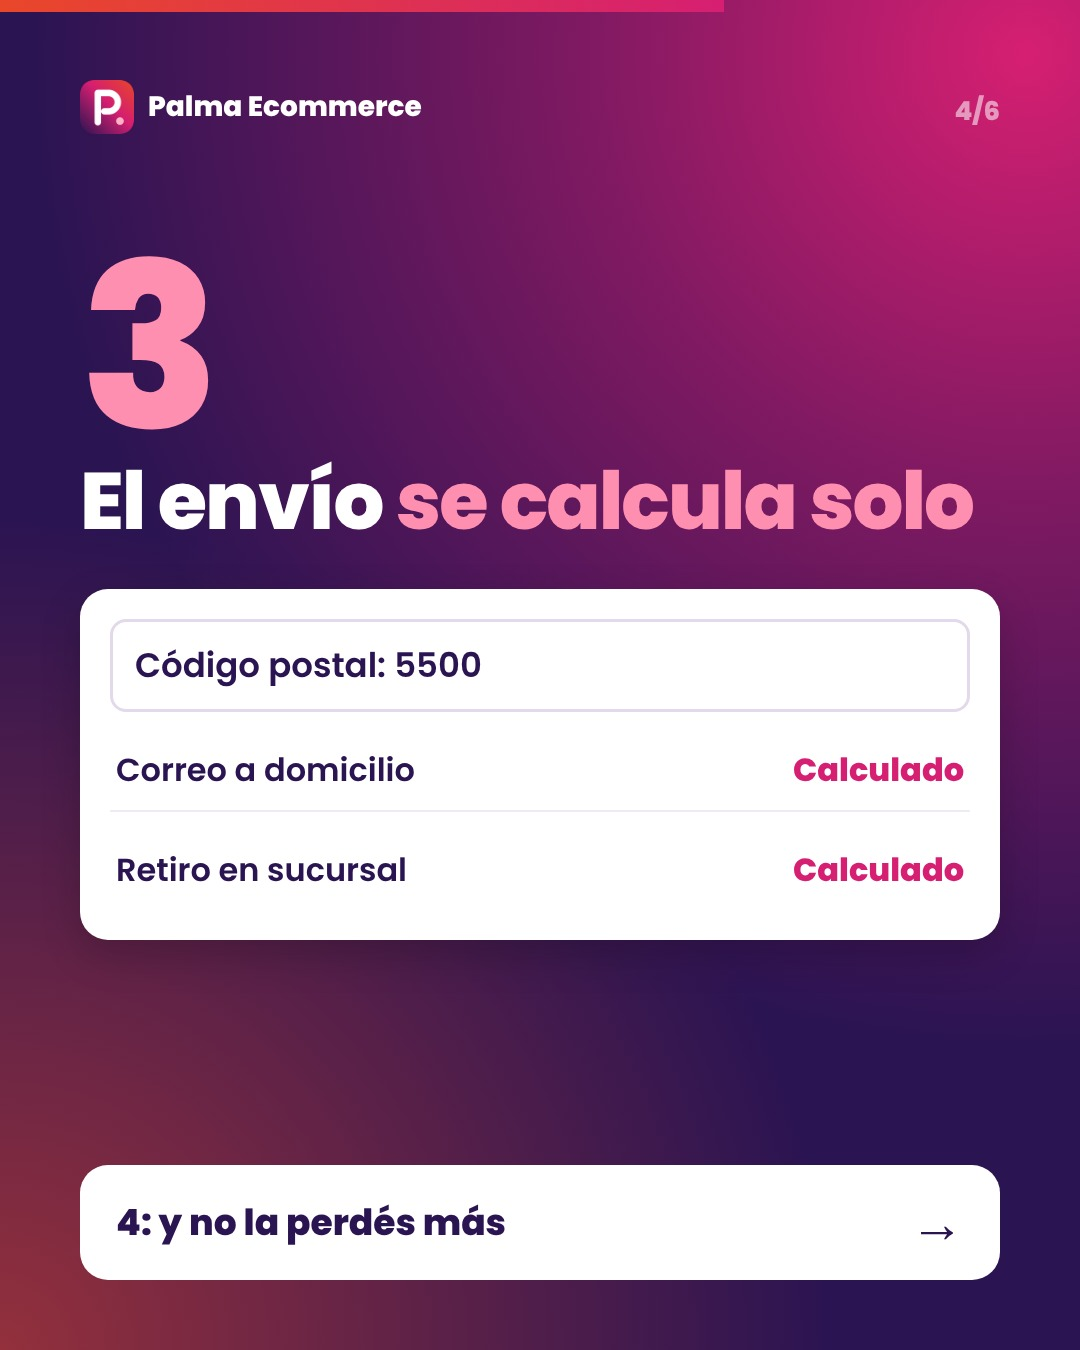
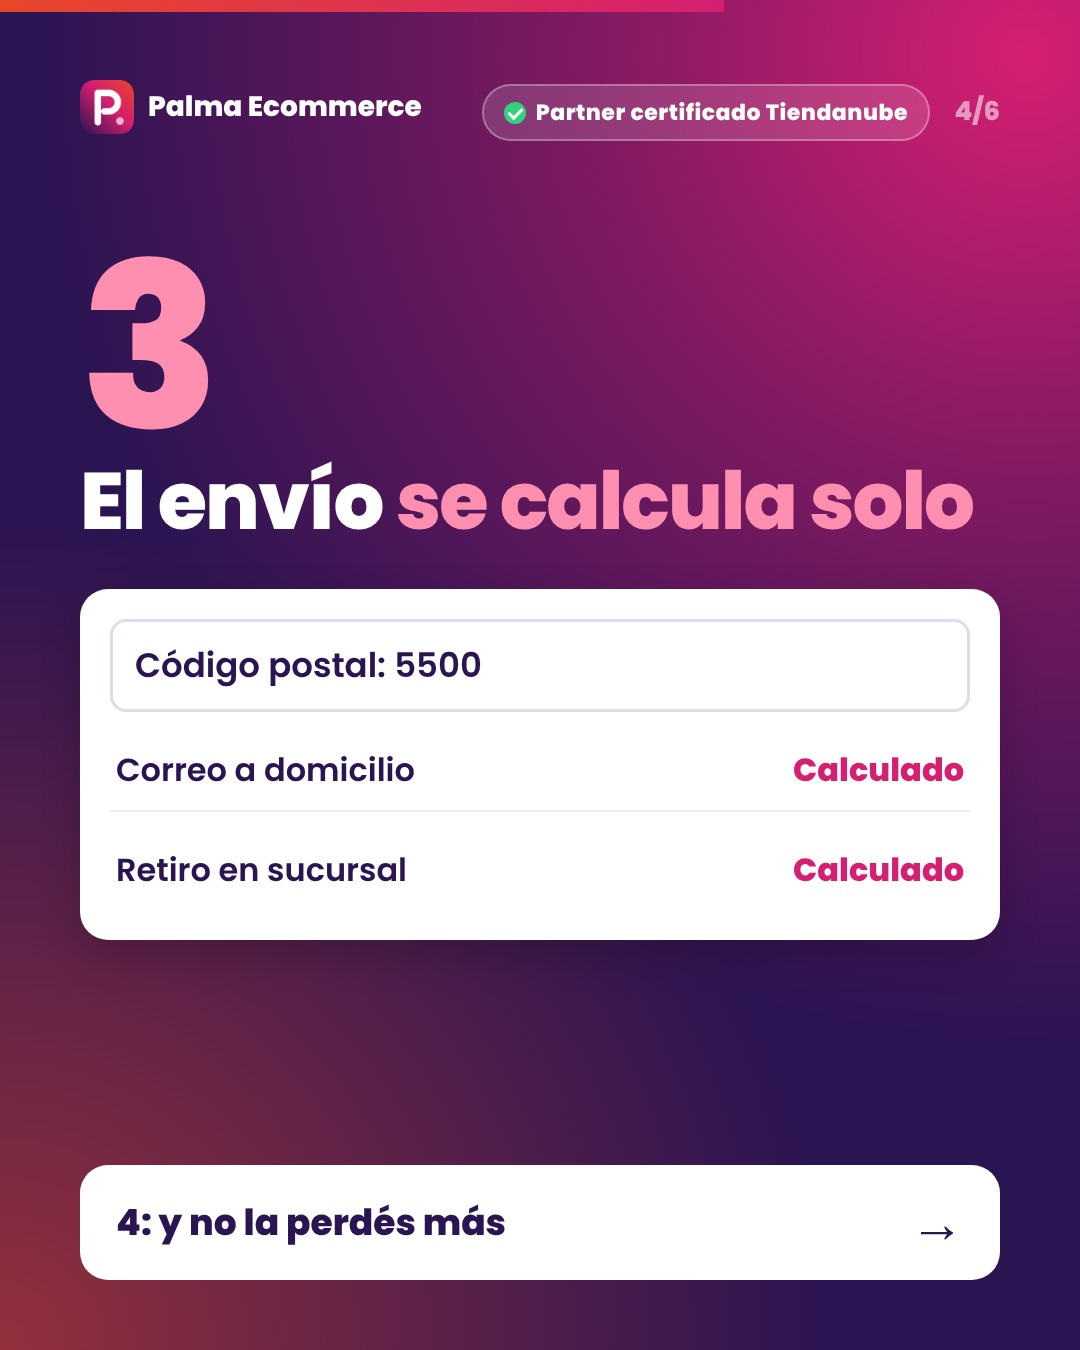
7 carruseles con sello Partner certificado, planes de menor a mayor y textos con palabras clave: hoy 14 a 21 y mañana 10 y 13
Claude-Session: https://claude.ai/code/session_01G7nY97kiFTXAfjiwbHM3BN

Changed region(s): [[0.4278, 0.0622, 0.8861, 0.1244]]

diff --git a/diseno/lote.py b/diseno/lote.py
@@ -1,0 +1,60 @@
+import asyncio
+from gen2 import render
+P='style="color:#FF8FB1"'
+def cover(kick,h,extra=''): return ("dark",f'<div style="margin-top:70px" class=k>{kick}</div><div class=h style="font-size:100px;margin-top:30px">{h}</div>{extra}')
+def num(n,dark,h,body):
+    c=' style="margin-top:110px;color:#FF8FB1"' if dark else ' style="margin-top:110px"'
+    return ("dark" if dark else "light", f'<div class=n{c}>{n}</div><div class=h style="font-size:78px;margin-top:10px">{h}</div>{body}')
+def card(t,dark=False): return f'<div class="card sub" style="margin-top:50px">{t}</div>' if not dark else f'<div class=sub style="margin-top:40px;color:#F1ECF4">{t}</div>'
+def cta(h,t): return ("dark",f'<div class=h style="font-size:94px;margin-top:150px">{h}</div><div class=sub style="margin-top:40px;color:#F1ECF4">{t}</div><div class=sub style="margin-top:44px;font-size:36px;color:#FFB3C7">Partner certificado de Tiendanube</div>')
+def chk(*xs): return '<div class=chk>'+''.join(f'<div><i></i>{x}</div>' for x in xs)+'</div>'
+def chat(*bs): return '<div class=chat style="margin-top:44px">'+''.join(f'<div class="b{" me" if m else ""}"{" style=opacity:.5" if f else ""}>{t}</div>' for t,m,f in bs)+'</div>'
+W="Escribinos al 11 6791-5562"
+L={}
+L['c05v2']=[
+ (*cover("GUARDALO PARA REVISAR LA TUYA",f'5 errores que hacen que <span {P}>tu tienda no venda</span>'),"Deslizá y fijate cuántos tenés"),
+ (*num(1,False,'Fotos <span>oscuras o borrosas</span>',card("La foto es lo único que el cliente puede tocar. Luz natural de ventana y fondo liso.")),"2: el que más ventas frena"),
+ (*num(2,False,'Productos <span>sin precio</span>',chat(("precio?",0,0),("hola, precio??",0,0),("(no volvió a escribir)",0,1))),"3: la duda que frena la compra"),
+ (*num(3,True,f'Sin talles <span {P}>ni medidas</span>',card("Si no sabe si le va, no compra. Poné una tabla de talles o medidas en cada producto.",True)),"4: la sorpresa en el pago"),
+ (*num(4,False,'Envío <span>poco claro</span>',card("Decí cuánto cuesta y cuánto tarda antes de que llegue al pago. Las sorpresas en el último paso hacen que abandone.")),"5: el más fácil de arreglar"),
+ (*num(5,False,'Nadie <span>responde</span>',card("Botón de WhatsApp visible y respuestas rápidas para las preguntas de siempre.")),"¿Querés que revisemos la tuya?"),
+ (*cta(f'¿Querés que revisemos <span {P}>tu tienda?</span>',"Te decimos qué mejorar primero. Gratis y sin compromiso."),W)]
+L['c06v2']=[
+ (*cover("PRECIOS CLAROS, SIN COMISIÓN",f'¿Cuánto cuesta tener <span {P}>tu tienda armada?</span>'),"Deslizá: arrancamos por el más simple"),
+ ("light",'<div class=k style="margin-top:130px;background:#2B1452">INICIAL · TIENDA LISTA</div><div class=h style="font-size:120px;margin-top:30px">$350.000</div><div class=sub style="margin-top:6px">de armado + $65.000 por mes</div>'+card("Tu tienda armada y con todos los productos cargados."),"Si además querés publicidad"),
+ ("dark",'<div class=k style="margin-top:130px;background:#D61F72">MEDIO · EL QUE RECOMENDAMOS</div><div class=h style="font-size:120px;margin-top:30px;color:#FF8FB1">$590.000</div><div class=sub style="margin-top:6px;color:#F1ECF4">de armado + $330.000 por mes</div>'+card("Tu tienda armada y cargada, más publicidad en Instagram y Facebook para que te compren.",True),"Y si querés que hagamos todo"),
+ ("light",'<div class=k style="margin-top:130px;background:#2B1452">PREMIUM · TODO HECHO</div><div class=h style="font-size:120px;margin-top:30px">$890.000</div><div class=sub style="margin-top:6px">de armado + $620.000 por mes</div>'+card("Tienda, publicidad, email y WhatsApp: todo a cargo nuestro."),"Lo que tenés que saber"),
+ ("light",'<div class=h style="font-size:80px;margin-top:150px">Para que <span>tengas en cuenta</span></div>'+chk("Sin comisión sobre tus ventas","Pagás 50% al arrancar y 50% al ver tu tienda","La publicidad la pagás aparte, directo a Meta"),"¿Cuál te conviene?"),
+ (*cta(f'¿Cuál <span {P}>te conviene?</span>',"Escribinos, contanos cómo vendés hoy y te recomendamos uno. Precios de lanzamiento de noviembre de 2026."),W)]
+L['c07v2']=[
+ (*cover("LA PREGUNTA QUE TODOS SE HACEN",f'¿Y si pago <span {P}>y no me hacen nada?</span>'),"Deslizá: por eso hay 2 garantías"),
+ (*num(1,False,'Garantía <span>de la tienda</span>',card("Pagás el 50% para arrancar. Si cuando la ves no te gusta, no pagás el 50% restante.")),"2: la de la publicidad"),
+ (*num(2,True,f'Garantía <span {P}>de la publicidad</span>',card("Si en 10 días hábiles tus campañas no están publicadas, ese mes no lo pagás.",True)),"Y algo más importante"),
+ ("light",'<div class=h style="font-size:84px;margin-top:150px">Todo queda <span>a tu nombre</span></div>'+chk("La tienda es tuya","Las cuentas son tuyas","Tus clientes son tuyos"),"¿Te quedó alguna duda?"),
+ (*cta(f'Desconfiar <span {P}>está bien</span>',"Preguntanos todo lo que necesites antes de decidir. Te respondemos por WhatsApp."),W)]
+L['c09v2']=[
+ (*cover("ASÍ FUNCIONA",f'Publicidad que te <span {P}>llena el WhatsApp</span>',chat(("Hola! Vi tu anuncio, ¿hacen envíos?",0,0),("Hola, quiero info por mayor",0,0))),"Deslizá: 4 pasos"),
+ (*num(1,False,'Armamos <span>el anuncio</span>',card("Con tus fotos y videos, pensado para tu rubro y para tu zona o todo el país.")),"2: la gente te escribe"),
+ (*num(2,False,'Te escriben <span>directo</span>',card("El anuncio abre un chat con tu WhatsApp. Sin formularios, sin vueltas.")),"3: vos vendés"),
+ (*num(3,True,f'Vos <span {P}>vendés</span>',card("Respondés como siempre, o te dejamos respuestas rápidas listas para las preguntas de siempre.",True)),"4: sabés cuánto rindió"),
+ (*num(4,False,'Medimos <span>todo</span>',chk("Cuánto invertiste","Cuántos te escribieron","Cuánto vendiste")),"¿Querés más mensajes?"),
+ (*cta(f'¿Querés que te escriban <span {P}>más clientes?</span>',"Te contamos cómo sería la publicidad para tu marca."),W)]
+L['c10v2']=[
+ (*cover("MIENTRAS DORMÍS",f'Son las 2 de la mañana y <span {P}>alguien quiere comprarte</span>',chat(("Hola, ¿tenés el conjunto negro en M?",0,0),("(02:14)",0,1))),"Deslizá: qué pasa con y sin tienda"),
+ ("light",'<div class=k style="margin-top:110px;background:#2B1452">SIN TIENDA</div><div class=h style="font-size:80px;margin-top:30px">A la mañana <span>ya le compró a otro</span></div>'+card("Te escribió, no le contestaste a tiempo y siguió buscando."),"Ahora mirá con tienda"),
+ ("dark",f'<div class=k style="margin-top:110px;background:#D61F72">CON TIENDA</div><div class=h style="font-size:80px;margin-top:30px">Te despertás <span {P}>con la venta hecha</span></div>'+'<div class=card style="margin-top:46px;font-size:34px;line-height:1.45;color:#2B1452"><b style="font-size:38px">Pedido #3108 · 02:16</b><br>1 conjunto negro · talle M<br><span style="display:inline-block;margin-top:10px;background:#e4f7ec;color:#1a7a44;border-radius:99px;padding:6px 20px;font-size:28px;font-weight:600">Pagado</span></div>',"¿Y el WhatsApp?"),
+ ("light",'<div class=h style="font-size:84px;margin-top:150px">No dejás <span>tu WhatsApp</span></div>'+card("Tus clientes te siguen escribiendo. Pero el que quiere comprar ya, compra solo."),"¿Arrancamos?"),
+ (*cta(f'Tu tienda <span {P}>no duerme</span>',"Te la armamos y te cargamos todos los productos."),W)]
+L['c11v2']=[
+ (*cover("PENSALO UN SEGUNDO",f'Si mañana te bloquean Instagram, <span {P}>¿dónde quedan tus clientes?</span>'),"Deslizá"),
+ ("light",'<div class=h style="font-size:84px;margin-top:150px">Instagram <span>no es tuyo</span></div>'+card("Una cuenta se puede bloquear o hackear de un día para el otro. Y con ella, tus contactos."),"Lo que sí es tuyo"),
+ ("dark",f'<div class=h style="font-size:84px;margin-top:150px">Tu tienda <span {P}>sí es tuya</span></div>'+chk("Tus productos","Tus ventas","La lista de todos tus clientes"),"Lo ideal"),
+ ("light",'<div class=h style="font-size:84px;margin-top:150px">Lo ideal: <span>las dos cosas</span></div>'+card("Instagram para que te conozcan. La tienda para venderles y no perderlos nunca."),"¿Armamos la tuya?"),
+ (*cta(f'Cuidá <span {P}>a tus clientes</span>',"Te armamos la tienda donde quedan guardados, con todos tus productos."),W)]
+import sys
+from c04 import S as S04
+from c08 import S as S08
+L['c04v2']=S04
+async def main():
+    for k,v in L.items(): await render(v,k)
+asyncio.run(main())

diff --git a/diseno/programar.py b/diseno/programar.py
@@ -1,0 +1,35 @@
+import asyncio, json, shutil, glob
+from gen2 import story
+P='style="color:#FF8FB1"'
+WA="Escribinos por WhatsApp al 11 6791-5562 y te hacemos un diagnóstico gratis."
+F="Somos Palma Ecommerce, Partner certificado de Tiendanube: armamos tiendas online llave en mano para mayoristas y marcas de Flores, Once, Avellaneda y La Salada."
+C=[
+ ("c04v2","2026-11-12T14:00","alcance","Vender por mayor a todo el país sin moverte de tu local","Cómo vender a revendedoras de todo el país con tu tienda online mayorista 👇\n\nTe encuentran por Instagram y Facebook, arman el pedido solas, el envío se calcula solo con el código postal y cada clienta queda guardada para volver a venderle.",
+  ("SIN MOVERTE DEL LOCAL",f'Vendé a revendedoras <span {P}>de todo el país</span>',"Así llegan los pedidos de todo el país."),"#ventamayorista #tiendaonline #revendedoras #tiendanube #mayoristas"),
+ ("c05v2","2026-11-12T15:00","educativo","5 errores que hacen que tu tienda online no venda","¿Tu tienda online no vende? Revisá estos 5 errores 👇 Guardalo para cuando revises la tuya.\n\n1. Fotos oscuras o borrosas. 2. Productos sin precio. 3. Sin talles ni medidas. 4. Envío poco claro. 5. Nadie responde.",
+  ("GUARDALO",f'5 errores que hacen que <span {P}>tu tienda no venda</span>',"¿Cuántos tenés? Están en el post de hoy."),"#tiendaonline #ventasonline #emprendedoresargentinos #tiendanube #ecommerce"),
+ ("c06v2","2026-11-12T17:00","precios","Cuánto cuesta una tienda online Tiendanube armada","¿Cuánto cuesta tener tu tienda online armada? Te mostramos los 3 planes, con precios claros y sin comisión sobre tus ventas 👇\n\nInicial $350.000 + $65.000/mes · Medio $590.000 + $330.000/mes · Premium $890.000 + $620.000/mes. La publicidad se paga aparte, directo a Meta. Precios de lanzamiento de noviembre de 2026.",
+  ("PRECIOS CLAROS",f'¿Cuánto cuesta <span {P}>tu tienda armada?</span>',"Los 3 planes, sin comisión sobre tus ventas."),"#tiendanube #tiendaonline #emprendedoresargentinos #mayoristas #ecommerce"),
+ ("c07v2","2026-11-12T19:00","confianza","Garantía: tienda online sin riesgo","¿Y si pago y no me hacen nada? Por eso trabajamos con 2 garantías 👇\n\nSi la tienda no te gusta, no pagás el 50% restante. Si en 10 días hábiles tus campañas no están publicadas, ese mes no se paga. Y todo queda a tu nombre.",
+  ("2 GARANTÍAS",f'¿Y si pago <span {P}>y no me hacen nada?</span>',"Te contamos cómo trabajamos para que no corras riesgo."),"#tiendanube #tiendaonline #emprendedores #ecommerce #agenciadigital"),
+ ("c09v2","2026-11-12T21:00","publicidad","Publicidad en Instagram y Facebook que trae mensajes a WhatsApp","Publicidad en Instagram y Facebook que te llena el WhatsApp de consultas 👇\n\nArmamos el anuncio con tus fotos, la gente te escribe directo, vos vendés y medimos cuánto invertiste y cuánto vendiste.",
+  ("ASÍ FUNCIONA",f'Publicidad que te <span {P}>llena el WhatsApp</span>',"4 pasos. Están en el post."),"#publicidadenredes #metaads #whatsappbusiness #emprendedoresargentinos #tiendanube"),
+ ("c10v2","2026-11-13T10:00","dolor","Tienda online que vende las 24 horas","Tu tienda online vende las 24 horas, aunque estés durmiendo 👇\n\nSin tienda, el que te escribe a la noche a la mañana ya le compró a otro. Con tienda, te despertás con la venta hecha. Y seguís atendiendo por WhatsApp como siempre.",
+  ("MIENTRAS DORMÍS",f'¿Cuántas ventas <span {P}>se te van de noche?</span>',"Tu tienda puede vender las 24 horas."),"#tiendaonline #ventasonline #tiendanube #emprendedoresargentinos #ecommerce"),
+ ("c11v2","2026-11-13T13:00","riesgo","Por qué tener tienda online además de Instagram","Si mañana te bloquean Instagram, ¿dónde quedan tus clientes? 👇\n\nInstagram no es tuyo: una cuenta se puede bloquear o hackear. Tu tienda online sí: tus productos, tus ventas y la lista de todos tus clientes.",
+  ("PENSALO UN SEGUNDO",f'¿Y si mañana <span {P}>te bloquean Instagram?</span>',"Tus clientes tienen que estar en un lugar tuyo."),"#tiendaonline #emprendedoresargentinos #tiendanube #ventasonline #mayoristas"),
+]
+async def main():
+    for k,*_,st,_h in [(c[0],None,None,None,None,c[5],None) for c in C]: await story(*st,k)
+asyncio.run(main())
+cal_p='/home/claude/palma-publicador/calendario.json'; cal=json.load(open(cal_p))
+cal=[x for x in cal if not x["id"].startswith("v2-c04")]
+for k,fecha,tema,seo,cuerpo,st,tags in C:
+    imgs=sorted(f.split('/')[-1] for f in glob.glob(f'out/{k}-0*.jpg'))
+    for f in imgs+[f'{k}-historia.jpg']: shutil.copy('out/'+f,'/home/claude/palma-publicador/media/'+f)
+    texto=f"{cuerpo}\n\n{F}\n\n{WA}\n\n{tags}"
+    cal.append({"id":f"v2-{k}","fecha":fecha+":00-03:00","tipo":"carrusel","tema":tema,"seo":seo,"imagenes":imgs,"texto":texto,"facebook":True,"aprobado":True})
+    h=fecha[:-2]+"01"
+    cal.append({"id":f"v2-{k}-historia","fecha":h+":00-03:00","tipo":"historia","tema":tema,"imagenes":[f"{k}-historia.jpg"],"aprobado":True})
+json.dump(cal,open(cal_p,'w'),ensure_ascii=False,indent=2)
+print(len(cal))

diff --git a/diseno/gen2.py b/diseno/gen2.py
@@ -10,6 +10,9 @@ CSS="""@font-face{font-family:P;src:url(F4);font-weight:400}@font-face{font-fami
 .top{display:flex;align-items:center;gap:14px;font-weight:800;font-size:28px}.top img{width:54px;height:54px;border-radius:13px}
 .bar{position:absolute;top:0;left:0;height:12px;background:linear-gradient(90deg,#E9472A,#D61F72)}
 .pg{position:absolute;top:92px;right:80px;font-weight:800;font-size:26px;opacity:.55}
+.tn{position:absolute;top:84px;right:150px;display:flex;align-items:center;gap:10px;border-radius:999px;padding:10px 20px;font-weight:800;font-size:22px;letter-spacing:.5px}
+.dark .tn{background:rgba(255,255,255,.14);border:2px solid rgba(255,255,255,.3);color:#fff}.light .tn{background:#2B1452;color:#fff}
+.tn i{width:22px;height:22px;border-radius:50%;background:#2fd47a;position:relative}.tn i:after{content:'';position:absolute;left:7px;top:3px;width:6px;height:11px;border:solid #fff;border-width:0 3px 3px 0;transform:rotate(45deg)}
 .k{display:inline-block;background:#E9472A;color:#fff;border-radius:999px;padding:12px 28px;font-weight:800;font-size:26px;letter-spacing:2px}
 .h{font-weight:800;letter-spacing:-2px;line-height:1.02}.h span{color:#FF8FB1}.light .h span{color:#D61F72}
 .sub{font-size:42px;line-height:1.3;font-weight:600}
@@ -28,7 +31,7 @@ CSS="""@font-face{font-family:P;src:url(F4);font-weight:400}@font-face{font-fami
 for k,v in (("F4",400),("F6",600),("F8",800)): CSS=CSS.replace(k,FONT%v)
 def page(cls,i,n,body,nxt):
     nx=f'<div class=next><span>{nxt}</span><b>→</b></div>' if nxt else ''
-    return f'<body class={cls}><div class=bar style="width:{100*i/n:.0f}%"></div><div class=top><img src="{ICON}">Palma Ecommerce</div><div class=pg>{i}/{n}</div>{body}{nx}</body>'
+    return f'<body class={cls}><div class=bar style="width:{100*i/n:.0f}%"></div><div class=top><img src="{ICON}">Palma Ecommerce</div><div class=tn><i></i>Partner certificado Tiendanube</div><div class=pg>{i}/{n}</div>{body}{nx}</body>'
 async def render(slides,prefix):
     os.makedirs('out',exist_ok=True); outs=[]
     async with async_playwright() as p:
@@ -53,3 +56,19 @@ CSS+=""".cli{display:flex;flex-direction:column;gap:16px;margin-top:40px}.cli di
 .cli b{font-size:34px;display:block}.cli span{font-size:26px;color:#7a6b8f;font-weight:600}
 .cup{margin-top:50px;border:5px dashed #FF8FB1;border-radius:34px;padding:44px;text-align:center}.cup b{display:block;font-size:110px;letter-spacing:4px;color:#fff}.cup span{font-size:38px;font-weight:600;color:#F1ECF4}
 """
+CSS+=""".chips{display:flex;flex-wrap:wrap;gap:16px;margin-top:50px}.chips span{background:rgba(255,255,255,.14);border:2px solid rgba(255,255,255,.25);border-radius:999px;padding:16px 28px;font-size:34px;font-weight:600}
+.cp{margin-top:46px;background:#fff;border-radius:28px;padding:30px;color:#2B1452;box-shadow:0 14px 40px rgba(0,0,0,.2)}.cp .in{border:3px solid #e2d9ea;border-radius:16px;padding:18px 22px;font-size:34px;font-weight:600}.cp .op{display:flex;justify-content:space-between;margin-top:18px;font-size:32px;font-weight:600;padding:16px 6px;border-bottom:2px solid #f0eaf3}.cp .op b{color:#D61F72}
+"""
+
+async def story(kick,h,sub,prefix):
+    css=CSS.replace('width:1080px;height:1350px','width:1080px;height:1920px')
+    body=f'''<body class=dark><div class=top><img src="{ICON}">Palma Ecommerce</div><div class=k style="margin-top:300px">NUEVO POST</div>
+<div class=h style="font-size:110px;margin-top:34px">{h}</div><div class=sub style="margin-top:40px;color:#F1ECF4;font-size:46px">{sub}</div>
+<div style="position:absolute;left:80px;right:80px;bottom:360px;background:#fff;color:#2B1452;border-radius:999px;text-align:center;font-weight:800;font-size:42px;padding:34px">WhatsApp 11 6791-5562</div>
+<div style="position:absolute;left:0;right:0;bottom:270px;text-align:center;font-weight:800;font-size:30px;color:#fff;display:flex;justify-content:center;align-items:center;gap:12px"><span style="width:30px;height:30px;border-radius:50%;background:#2fd47a;display:inline-block"></span>Partner certificado de Tiendanube</div></body>'''
+    f=f'out/{prefix}-historia'
+    async with async_playwright() as p:
+        b=await p.chromium.launch(); pg=await b.new_page(viewport={'width':1080,'height':1920})
+        open(f+'.html','w').write(f'<html><head><meta charset=utf-8><style>{css}</style></head>{body}</html>')
+        await pg.goto('file://'+os.path.abspath(f+'.html')); await pg.wait_for_timeout(300); await pg.screenshot(path=f+'.png'); await b.close()
+    os.remove(f+'.html'); Image.open(f+'.png').convert('RGB').save(f+'.jpg',quality=92)

diff --git a/diseno/c04.py b/diseno/c04.py
@@ -1,0 +1,29 @@
+import asyncio
+from gen2 import render
+S=[
+ ("dark", '''<div style="margin-top:70px" class=k>SIN MOVERTE DEL LOCAL</div>
+ <div class=h style="font-size:104px;margin-top:30px">Vendé a revendedoras <span style="color:#FF8FB1">de todo el país</span></div>
+ <div class=chips><span>Córdoba</span><span>Rosario</span><span>Mendoza</span><span>Tucumán</span><span>Neuquén</span><span>Mar del Plata</span><span>Salta</span></div>''',
+  "Deslizá: así llegan los pedidos"),
+ ("light", '''<div class=n style="margin-top:110px">1</div>
+ <div class=h style="font-size:80px;margin-top:10px">Te encuentran <span>en Instagram y Facebook</span></div>
+ <div class="card sub" style="margin-top:50px">Hacemos publicidad para que te vean revendedoras de todo el país, no solo las que pasan por el local.</div>''',
+  "2: compran solas, a cualquier hora"),
+ ("light", '''<div class=n style="margin-top:110px">2</div>
+ <div class=h style="font-size:80px;margin-top:10px">Arman el pedido <span>solas</span></div>
+ <div class=card style="margin-top:46px;font-size:34px;line-height:1.45"><b style="font-size:38px">Pedido #2051 · Revendedora de Mendoza</b><br>18 prendas · talles surtidos<br><span style="display:inline-block;margin-top:10px;background:#e4f7ec;color:#1a7a44;border-radius:99px;padding:6px 20px;font-size:28px;font-weight:600">Pagado por transferencia</span></div>''',
+  "3: el envío se calcula solo"),
+ ("dark", '''<div class=n style="margin-top:110px;color:#FF8FB1">3</div>
+ <div class=h style="font-size:80px;margin-top:10px">El envío <span style="color:#FF8FB1">se calcula solo</span></div>
+ <div class=cp><div class=in>Código postal: 5500</div><div class=op><span>Correo a domicilio</span><b>Calculado</b></div><div class=op style="border:0"><span>Retiro en sucursal</span><b>Calculado</b></div></div>''',
+  "4: y no la perdés más"),
+ ("light", '''<div class=n style="margin-top:110px">4</div>
+ <div class=h style="font-size:80px;margin-top:10px">Queda guardada <span>para volver a venderle</span></div>
+ <div class="card sub" style="margin-top:50px">Nombre, WhatsApp, email y qué compró. Cuando entra mercadería nueva, le avisás.</div>''',
+  "¿Querés vender a todo el país?"),
+ ("dark", '''<div class=h style="font-size:96px;margin-top:150px">Tu local, <span style="color:#FF8FB1">abierto en todo el país</span></div>
+ <div class=sub style="margin-top:40px;color:#F1ECF4">Te armamos la tienda con todos tus productos y la publicidad para que te encuentren. Vos despachás.</div>
+ <div class=sub style="margin-top:44px;font-size:36px;color:#FFB3C7">Partner certificado de Tiendanube</div>''',
+  "Escribinos al 11 6791-5562"),
+]
+if __name__=="__main__": print(asyncio.run(render(S,"c04v2")))

diff --git a/diseno/c08.py b/diseno/c08.py
@@ -26,4 +26,4 @@ S=[
  <div class=sub style="margin-top:44px;font-size:36px;color:#FFB3C7">Partner certificado de Tiendanube</div>''',
   "Escribinos al 11 6791-5562"),
 ]
-print(asyncio.run(render(S,'c08v2')))
+if __name__=="__main__": print(asyncio.run(render(S,"c08v2")))
